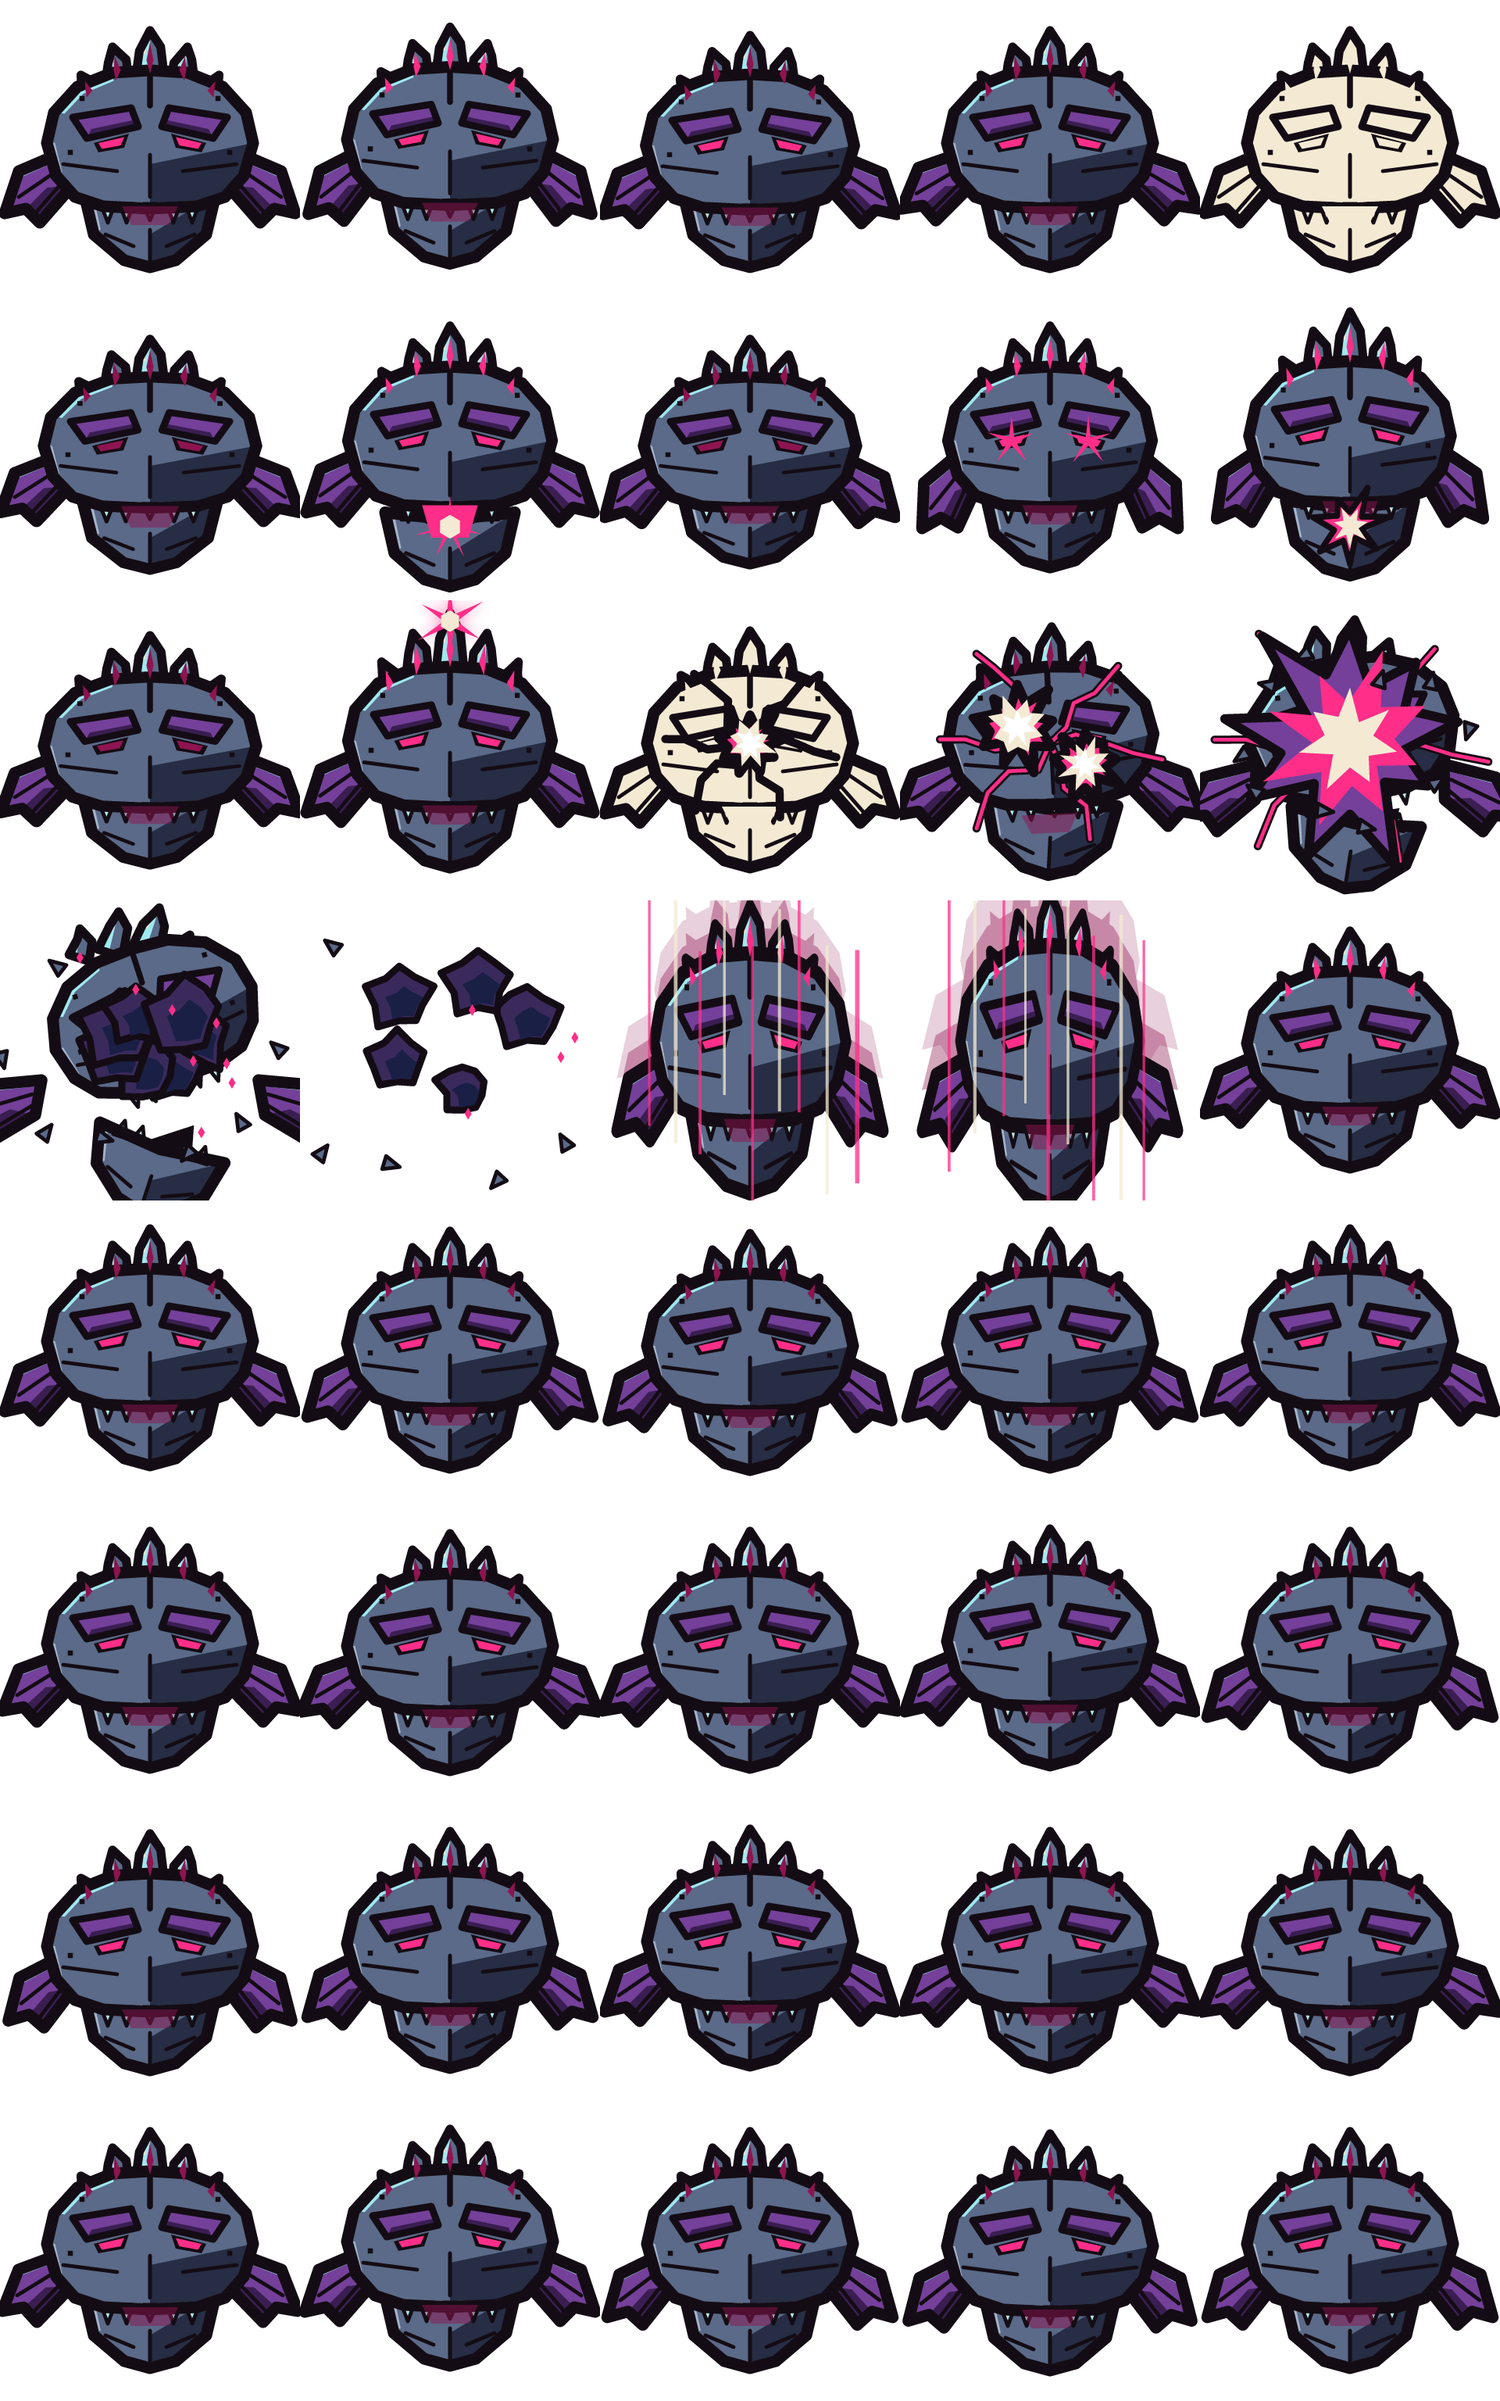
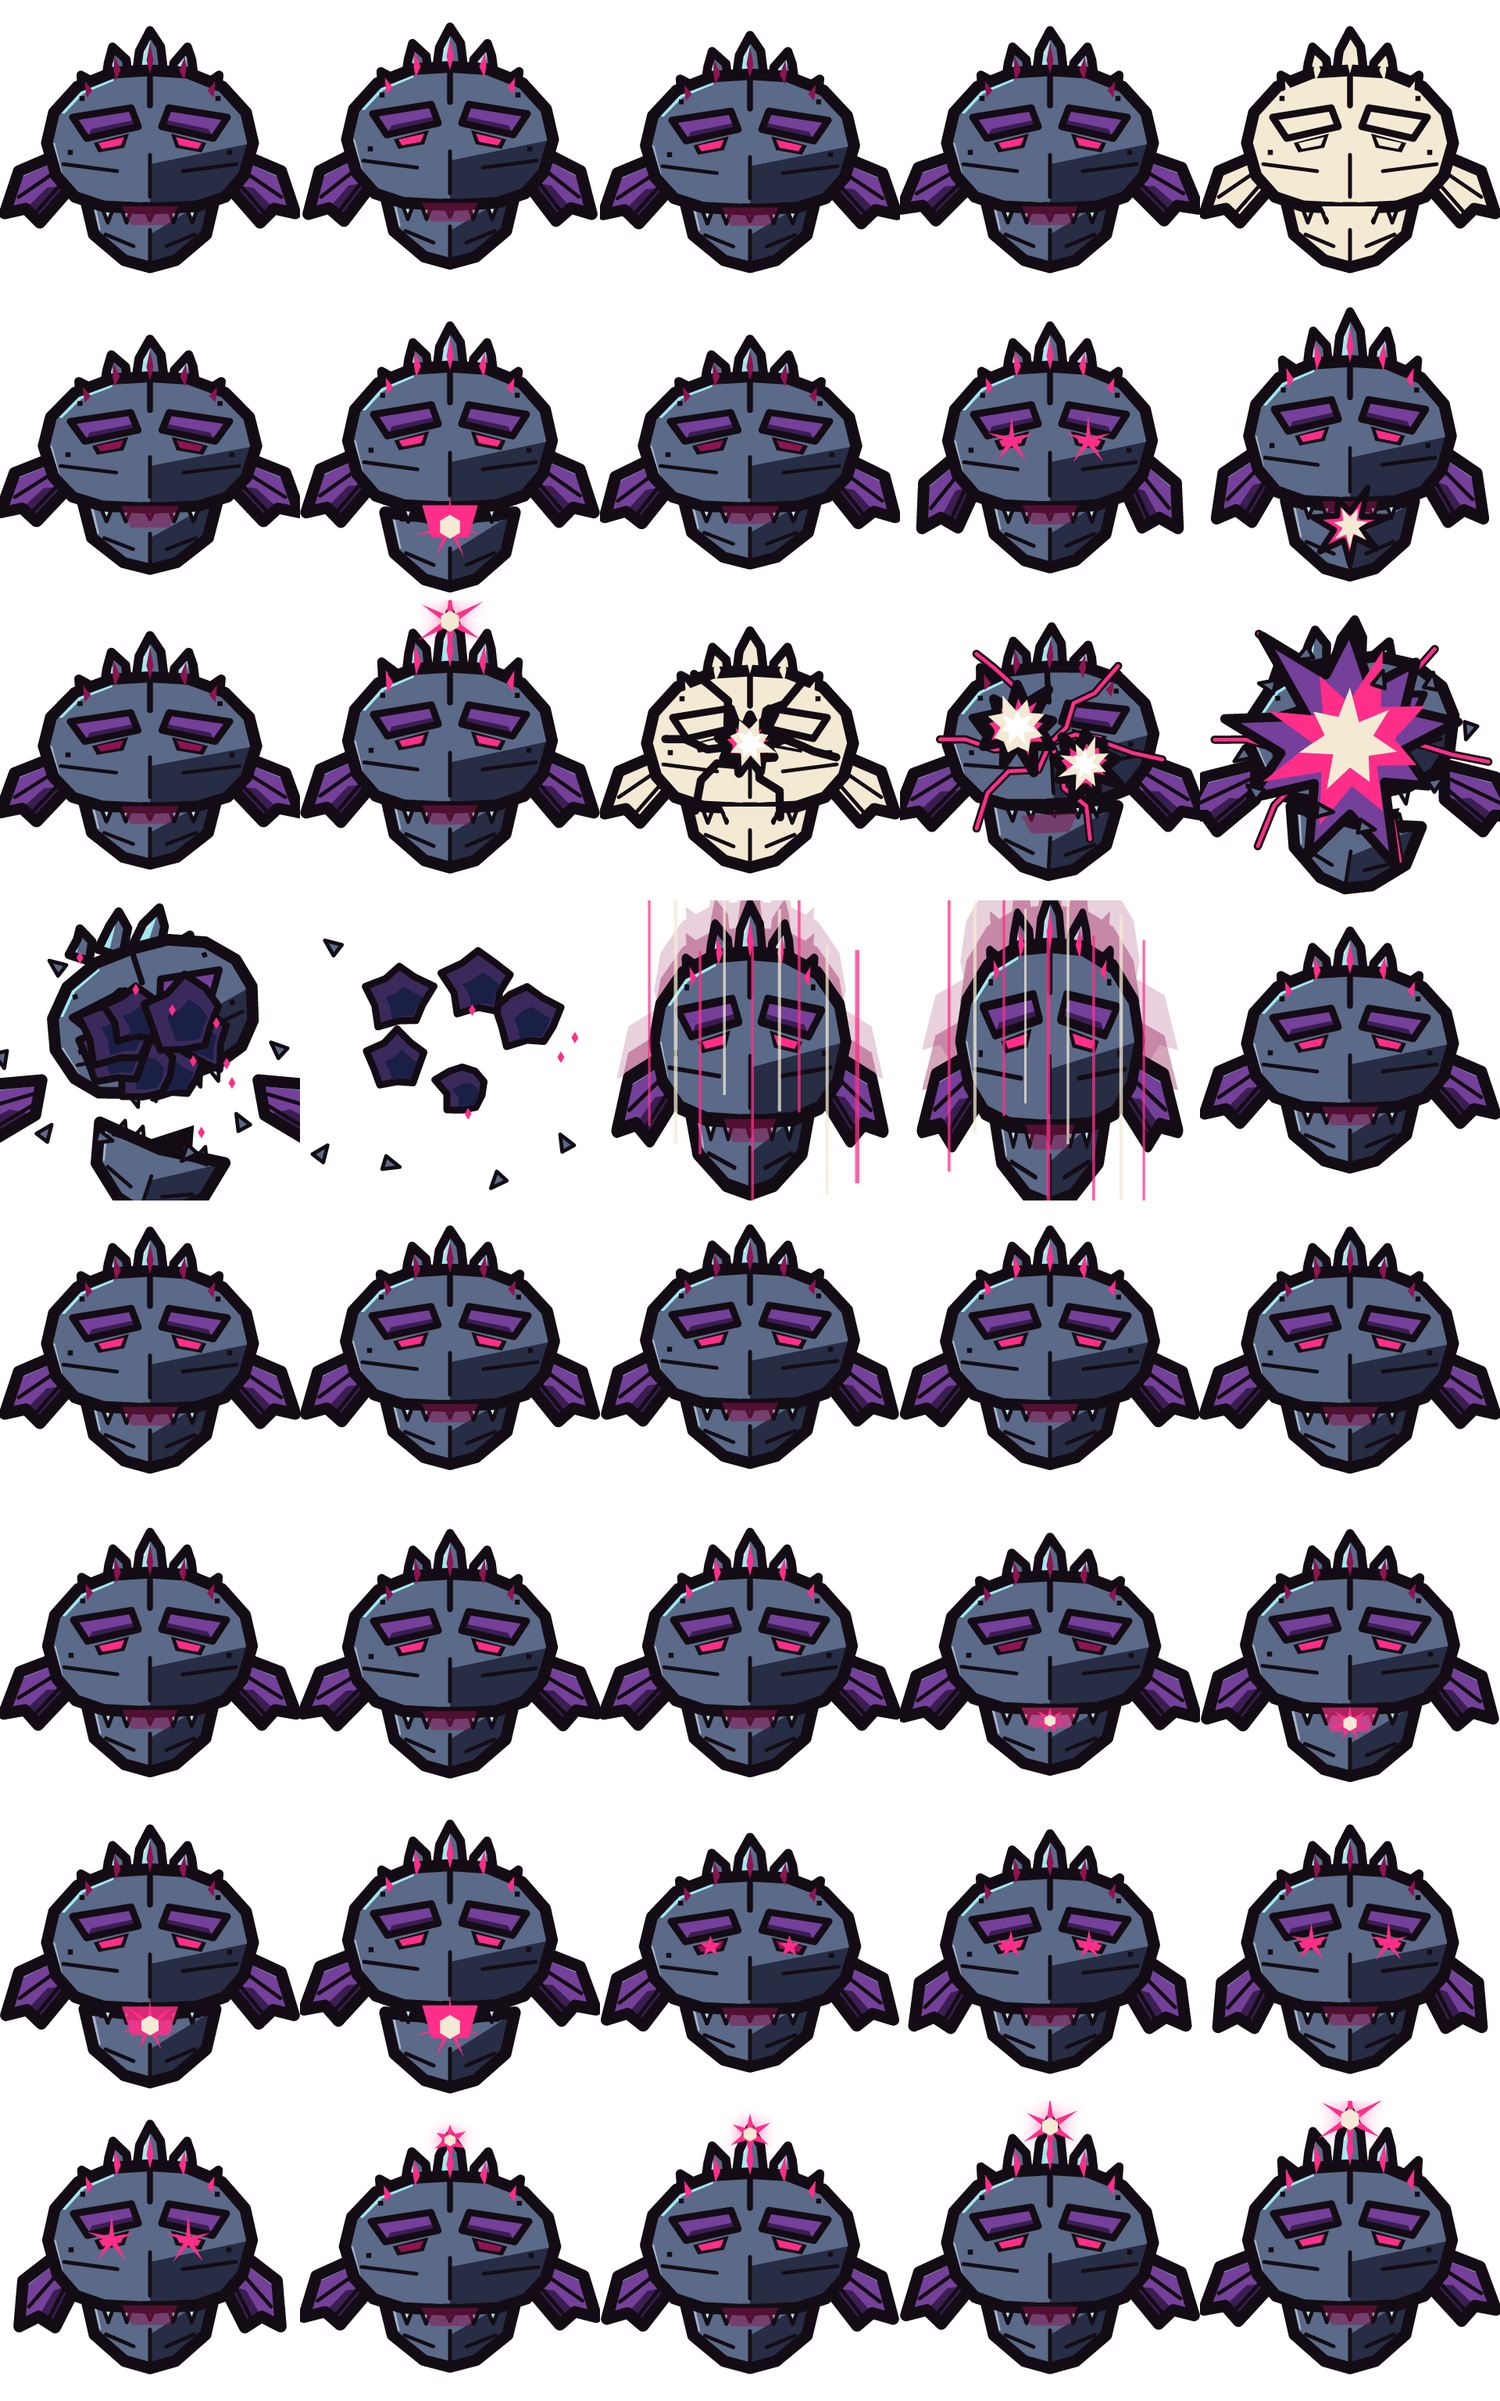
Expand Hoarfrost Leviathan combat animation

Changed region(s): [[0.0, 0.5, 1.0, 1.0], [0.7188, 0.7812, 0.75, 0.8125]]

diff --git a/Pause/Assets/Art/Bosses/src~/bosses.py b/Pause/Assets/Art/Bosses/src~/bosses.py
@@ -828,10 +828,9 @@ def frame_table(key):
     T.append(("retreat_0", Pose(smear=.7, phase=.1, lights=1.0), 2))
     T.append(("retreat_1", Pose(smear=1.0, phase=.6, lights=1.0, sx=.97), 2))
     T.append(("portrait", Pose(lights=1.0), 0))
-    # The Archon gets twenty additional, intentionally held drawings.  These
-    # are not tweened in game: its reactor blinks and engine nozzles cycle
-    # through an eight-frame patrol loop, while each weapon gets a four-step
-    # mechanical anticipation that the fight code plays across its tell.
+    # The first two bosses get twenty additional, intentionally held
+    # drawings. These are not tweened in game: their idle and attack states
+    # snap through hand-authored frames during the encounter.
     if key == "Space":
         for i in range(8):
             phase = i / 8.0
@@ -852,6 +851,30 @@ def frame_table(key):
                     sx=(1.025, 1.012, 1.0, .985)[stage],
                     sy=(.965, .985, 1.005, 1.025)[stage],
                     lights=(.45, .62, .85, 1.0)[stage]), 2))
+    elif key == "Frost":
+        # A weighty whale-fortress idle: fins paddle, the skull drifts and
+        # the crown's trapped aurora pulses through the ice.
+        for i in range(8):
+            phase = i / 8.0
+            T.append(("leviathan_idle_%d" % i, Pose(
+                phase=phase, bob=(0, -2, -3, -2, 0, 2, 3, 2)[i],
+                sx=(1.0, 1.008, 1.014, 1.008, 1.0, .992, .986, .992)[i],
+                sy=(1.0, .992, .986, .992, 1.0, 1.008, 1.014, 1.008)[i],
+                lights=(.58, .7, .88, 1.0, .8, .66, .74, .9)[i]), 2))
+        # Jaw: unseal, drop, illuminate, spray.  Eyes/fins: sweep apart and
+        # glare. Crown: rises through three ice-bright charge states.
+        for tell in range(3):
+            for stage in range(4):
+                o = [0.0, 0.0, 0.0]
+                c = [0.0, 0.0, 0.0]
+                o[tell] = (.18, .45, .76, 1.0)[stage]
+                c[tell] = (.05, .3, .68, 1.0)[stage]
+                T.append(("leviathan_tell%d_%d" % (tell, stage), Pose(
+                    phase=.1 + stage * .17, open=o, charge=c,
+                    bob=(2, 1, -1, -3)[stage],
+                    sx=(1.024, 1.012, 1.0, .986)[stage],
+                    sy=(.966, .986, 1.006, 1.026)[stage],
+                    lights=(.4, .6, .84, 1.0)[stage]), 2))
     else:
         # Keep every atlas the same dimensions so runtime slicing remains
         # deterministic while the other bosses await their expanded sets.

diff --git a/Pause/Assets/Scripts/Bosses/BossArt.cs b/Pause/Assets/Scripts/Bosses/BossArt.cs
@@ -28,9 +28,9 @@ public static class BossArt
     public const int Death0 = 12, DeathFrames = 5;
     public const int Retreat0 = 17, RetreatFrames = 2;
     public const int Portrait = 19;
-    // Space-only frames in the lower half of the atlas.  Eight are an engine
-    // and reactor patrol loop; each of its three weapons has four deliberate
-    // anticipation drawings.  The other bosses retain their shared poses.
+    // Expanded-boss frames in the lower half of the atlas. Eight are a
+    // character idle loop; each of its three weapons has four anticipation
+    // drawings. Space and Frost currently use this set.
     public const int SpaceIdle0 = 20, SpaceIdleFrames = 8, SpaceTell0 = 28, SpaceTellFrames = 4;
     public static readonly int[] SpaceIdleTicks = { 2, 2, 2, 2, 2, 2, 2, 2 };
     public static int Tell(int pose, int frame)
@@ -39,7 +39,7 @@ public static class BossArt
         frame = Mathf.Clamp(frame, 0, 1);
         return pose == 0 ? 5 + frame : pose == 1 ? 7 + frame : 10 + frame;
     }
-    public static bool HasExpandedCombat(BossDef boss) => boss != null && boss.artKey == "Space";
+    public static bool HasExpandedCombat(BossDef boss) => boss != null && (boss.artKey == "Space" || boss.artKey == "Frost");
     public static int IdleFrame(BossDef boss, float seconds)
     {
         return HasExpandedCombat(boss)
